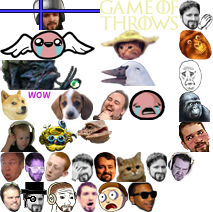
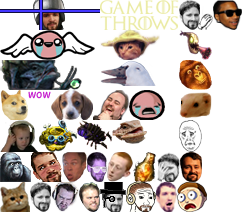
revert the removal of some emotes! we did it reddit!

diff --git a/static/chat/css/style.min.css b/static/chat/css/style.min.css
@@ -1,1 +1,1 @@
-.nano{position:relative;width:100%;height:100%;overflow:hidden}.nano .content{position:absolute;overflow:scroll;overflow-x:hidden;top:0;right:0;bottom:0;left:0}.nano .content:focus{outline:0}.nano .content::-webkit-scrollbar{visibility:hidden}.has-scrollbar .content::-webkit-scrollbar{visibility:visible}.nano:hover>.pane,.pane.active,.pane.flashed{visibility:visible\9;opacity:.99}.nano>.pane{background:rgba(0,0,0,0.3);position:absolute;width:8px;right:5px;top:0;bottom:0;visibility:hidden\9;opacity:.01;-webkit-transition:.2s;-moz-transition:.2s;-o-transition:.2s;transition:.2s}.nano>.pane>.slider{background:#999;position:relative;margin:0 1px;-moz-border-radius:3px;-webkit-border-radius:3px;border-radius:3px}.nano>.pane>.slider:hover,.nano>.pane.active>.slider{background:#eee}.serif{font-family:"Trebuchet MS",sans-serif}.chat{position:relative;width:100%;height:100%;min-width:300px}.chat-output-frame{margin-bottom:35px;height:auto;width:100%;position:absolute;overflow:hidden;top:0;bottom:0;left:0;right:0}.chat-output{width:100%;height:100%}.chat-output .chat-lines{-webkit-backface-visibility:hidden;-webkit-perspective:1000}.chat-lines>div{clear:both;word-wrap:break-word;padding:3px 20px 3px 5px}.chat-lines>div .continue{user-select:none;color:#444}.chat-lines>div i.continue{user-select:none;color:#222}.chat-lines a.user{font-weight:bold;cursor:pointer;font-family:"Trebuchet MS",sans-serif}.chat-lines hr{margin:8px 0}.chat-lines .msg.emote{font-style:italic}.chat-input{width:100%;position:absolute;bottom:0}#chat-top-frame{position:absolute;top:0;left:0;right:0}#chat-bottom-frame{position:absolute;bottom:35px;left:0;right:0}.chat-input>div{margin:5px 0 0 0;background:#2e2e2e}.chat-tools-wrap{position:absolute;right:0;bottom:0;margin:0;user-select:none;-moz-user-select:none;-webkit-user-select:none}.chat-input-wrap{margin:0;margin-right:60px}#user-mute-form,#user-ban-form{margin-top:10px;display:none}#user-mute-form #banTimeLength{width:150px}.chat-input-control{padding:3px 0 0 5px;height:28px;margin:1px;border-radius:3px}.chat-input-control .input{background:0;resize:none;margin:0;padding:0;width:100%;border:0;border-radius:0;box-shadow:none;box-sizing:border-box}.chat-input-control .input:focus{box-shadow:none}.chat-tools-wrap>div{height:30px;overflow:hidden}.chat-tools-wrap .iconbtn{cursor:pointer;width:30px;height:28px;line-height:28px;float:left;display:block;text-align:center;color:#555}.chat-tools-wrap .iconbtn:hover{color:white}.chat-tools-wrap .iconbtn.active{color:white}.chat .chat-lines i[class^="icon-"]{width:16px;line-height:16px;height:16px;margin:0;opacity:1;display:inline-block;vertical-align:middle}.chat-input-control input,.chat-lines{font-family:Helvetica,"Trebuchet MS",Verdana,sans-serif;font-size:13px;line-height:1.5em}.chat-lines time{font-size:11px}.chat-lines a.externallink{color:#02c2ff}.chat-lines a.externallink:visited{color:#004d74}.chat-lines a.externallink:hover,.chat-lines a.externallink:focus{color:#08c}.chat-lines a.nsfw-link{border-bottom:1px dashed red}.chat .chat-lines time,.chat .user-msg i{display:none!important}.chat.chat-time .chat-lines time,.chat.chat-icons .user-msg i,.chat-lines i[class*='icon-subscriber']{display:inline-block!important}.chat-theme-dark{background:#080808;border-radius:0}.chat-theme-dark .chat-input-wrap{border:0}.chat-theme-dark .chat-lines time{color:#414141}.chat-theme-dark .chat-lines>div.highlight time,.chat-lines>div.highlight .continue{color:#838383}.chat-theme-dark .chat-lines>.command-msg,.chat-theme-dark .chat-lines>.error-msg,.chat-theme-dark .chat-lines>.status-msg,.chat-theme-dark .chat-lines>.ui-msg,.chat-theme-dark .chat-lines>.own-msg,.chat-theme-dark .chat-lines>.highlight{color:#dedede}.chat-theme-dark .chat-lines>.broadcast-msg .msg{color:#edea12}.chat-theme-dark .chat-lines>.broadcast-msg{background:linear-gradient(to right,rgba(255,255,21,0.1) 0,rgba(255,255,255,0) 90%,rgba(255,255,255,0) 100%)}.chat-theme-dark .chat-lines>.own-msg{background:linear-gradient(to right,rgba(255,255,255,0.05) 0,rgba(255,255,255,0.05) 90%,rgba(255,255,255,0) 100%)}.chat-theme-dark .chat-lines>.highlight{background:linear-gradient(to right,rgba(0,150,255,0.5) 0,rgba(0,150,255,0) 100%)}.chat-theme-dark .chat-lines>.command-msg,.chat-theme-dark .chat-lines>.own-msg,.chat-theme-dark .chat-lines>.highlight .msg,.chat-theme-dark .chat-lines>.broadcast-msg .msg{text-shadow:1px 1px 0 rgba(0,0,0,0.5)}.chat-theme-dark .chat-input-control{background:#090909;border:0}.chat-theme-dark .chat-input-control input{color:#9e9e9e;background:#090909;text-shadow:none;outline:0}.chat-theme-dark input:input-placeholder{color:#222}.chat-theme-dark input::-webkit-input-placeholder{color:#222}.chat-theme-dark input:-moz-placeholder{color:#222}.chat-theme-dark input::-moz-placeholder{color:#222}.chat-theme-dark input:-ms-input-placeholder{color:#222}.chat-theme-dark .nano>.pane{background:rgba(0,0,0,0.3);width:8px;right:5px;top:5px;bottom:0}.chat-theme-dark .nano>.pane>.slider{background:#999}.chat-theme-dark .nano>.pane>.slider:hover,.chat-theme-dark .nano>.pane.active>.slider{background:#eee}.chat.focus-user .chat-lines>.user-msg{opacity:.3}.chat.focus-user .chat-lines>.user-msg.focused,.chat.focus-user .chat-lines>.user-msg.highlight{opacity:1}.chat .alert{margin-bottom:0;padding-top:4px;padding-bottom:4px;font-size:12px}.hint-popup,.user-tools{width:100%;top:-5px;left:0}.hint-popup>div,.user-tools>div,#chat-broadcasts>div{border-radius:4px;margin:5px 20px 5px 5px}.user-tools .user-tools-user{font-family:"Trebuchet MS",sans-serif}#chat-broadcasts .chat-emote{display:none}.hint-popup>div{box-shadow:0 2px 6px rgba(0,0,0,0.9);padding:0}.hint-popup a:hover{cursor:pointer;color:#6aa7f9}.hint-popup .hidehint,.hint-popup .nexthint{top:0;position:relative;float:right;right:-23px;line-height:20px;-webkit-touch-callout:none;-webkit-user-select:none;-khtml-user-select:none;-moz-user-select:none;-ms-user-select:none;user-select:none;color:#CCC}.hint-popup .hidehint{right:-27px}.hint-popup .hidehint:hover,.hint-popup .nexthint:hover{color:#111}.hint-popup .alert{padding-right:35px}.user-tools-wrap{margin-left:-5px}.user-tools-wrap>a{margin:0 5px}.chat-menu,.user-tools,.hint-popup{display:none;opacity:0}.chat-menu.active,.user-tools.active,.hint-popup.active{display:block;opacity:1}.chat-menu,.user-tools,.hint-popup{font-size:12px}.chat-menu{position:absolute;right:20px;bottom:-5px;width:240px}.chat-menu.active{bottom:0}.chat-menu h5,.user-tools h5{text-shadow:-1px -1px 0 rgba(0,0,0,0.25);user-select:none;-moz-user-select:none;-webkit-user-select:none;background:#4f4f4f;background:linear-gradient(to bottom,#4f4f4f 0,#2e2e2e 100%);border-bottom:1px solid #121212;margin:0;line-height:20px;display:block;padding:5px 15px 5px 10px;border-radius:4px 4px 0 0}.chat-menu .toolbar{width:100%;position:absolute;top:-31px;left:0}.chat-menu li,.chat-menu label{font-size:12px}.chat-menu label{font-weight:normal;margin:0 0 5px 0}.chat-menu label:hover{color:white}.chat-menu .list-wrap,.chat-menu .list-wrap .scrollable{max-height:330px;font-size:.9em}.chat-menu .list-wrap,.user-tools>div{box-shadow:0 2px 6px rgba(0,0,0,0.9);border-radius:0 0 4px 4px;background:rgba(25,25,25,0.9);padding:0}.chat-menu .list-wrap{margin-top:auto}.chat-menu ul,.user-tools .tools{padding:0 10px;margin:10px 0}.chat-menu ul>li:first-child h5{margin-top:0}.chat-menu ul li{text-overflow:ellipsis;overflow:hidden}#chat-user-list ul li{line-height:18px}#chat-user-list h6:first-child{margin-top:10px}#chat-user-list h6{font-weight:bold;margin:0 0 5px 5px}#chat-user-list hr{margin:5px 0}#chat-user-list ul{margin:0}#chat-user-list .user{cursor:pointer;font-family:"Trebuchet MS",sans-serif}.user-tools a#unignoreuser,.user-tools.user-ignored a#ignoreuser{display:none}.user-tools.user-ignored a#unignoreuser{display:inline-block}.chat-menu .nano>.pane{width:8px;right:3px;top:3px;bottom:3px}.chat-login-msg{display:inline-block;width:100%;padding:0 0 0 5px;line-height:30px;color:rgba(255,255,255,0.5);text-shadow:-1px -1px 0 rgba(0,0,0,0.25)}.chat-lines .emotecount{color:white;text-shadow:1px 1px 0 rgba(0,0,0,0.9);font-size:10px;line-height:10px;border-radius:10px;padding:3px 6px;margin:0 0 0 5px;background:#191919}.chat-lines .emotecount{text-shadow:none;animation:emotecount 600ms 1;-webkit-animation:emotecount 600ms 1}@keyframes emotecount{from{color:black;background-color:white}to{color:white;background-color:#333}}@-webkit-keyframes emotecount{from{color:black;background-color:white}to{color:white;background-color:#333}}.chat-lines .emotecount.x5>span{font-size:10px}.chat-lines .emotecount.x10>span{font-size:16px}.chat-lines .emotecount.x20>span{font-size:25px;vertical-align:middle}.chat-lines .emotecount.x30>span{font-size:35px;vertical-align:middle}.chat-lines .emotecount.x50>span{font-size:40px;vertical-align:middle}.chat a.user{color:#cacaca}.chat a.user:hover{color:#fafafa}.chat a.subscriber{color:#488ce7}.chat a.subscriber:hover{color:#6aa7f9}.chat a.flair3{color:#0060ff;text-shadow:1px 1px 0 black}.chat a.flair3:hover{color:#6aa7f9}.chat a.flair8{color:#a427d6;text-shadow:1px 1px 0 black}.chat a.flair8:hover{color:#e564f4}.chat a.vip{color:#4db524}.chat a.vip:hover{color:#4db524}.chat a.bot{color:#e79015}.chat a.bot:hover{color:#e79015}.chat a.admin{color:#b91010}.chat a.admin:hover{color:#f00}.chat .greentext{color:#6ca528}.chat-emote{display:inline-block;position:relative;top:10px;margin:0 2px}.chat-emote.chat-emote-OverRustle{animation:rustle 100ms 7;-webkit-animation:rustle 100ms 7}.chat-emote.chat-emote-OverRustle:hover{animation:rustle1 100ms infinite;-webkit-animation:rustle1 100ms infinite}@keyframes rustle{from{left:0}to{left:2px}}@-webkit-keyframes rustle{from{left:0}to{left:2px}}@keyframes rustle1{from{left:0}to{left:2px}}@-webkit-keyframes rustle1{from{left:0}to{left:2px}}.chat-emote.chat-emote-AYYYLMAO,.chat-emote.chat-emote-AngelThump,.chat-emote.chat-emote-Abathur,.chat-emote.chat-emote-GameOfThrows,.chat-emote.chat-emote-KINGSLY,.chat-emote.chat-emote-DuckerZ,.chat-emote.chat-emote-SoDoge,.chat-emote.chat-emote-FrankerZ,.chat-emote.chat-emote-FeedNathan,.chat-emote.chat-emote-Heimerdonger,.chat-emote.chat-emote-LUL,.chat-emote.chat-emote-BibleThump,.chat-emote.chat-emote-Hhhehhehe,.chat-emote.chat-emote-Klappa,.chat-emote.chat-emote-OverRustle,.chat-emote.chat-emote-SoSad,.chat-emote.chat-emote-NoTears,.chat-emote.chat-emote-DestiSenpaii,.chat-emote.chat-emote-WhoahDude,.chat-emote.chat-emote-WORTH,.chat-emote.chat-emote-UWOTM8,.chat-emote.chat-emote-OhKrappa,.chat-emote.chat-emote-Nappa,.chat-emote.chat-emote-MotherFuckinGame,.chat-emote.chat-emote-Kappa,.chat-emote.chat-emote-Disgustiny,.chat-emote.chat-emote-DatGeoff,.chat-emote.chat-emote-DappaKappa,.chat-emote.chat-emote-DaFeels,.chat-emote.chat-emote-DURRSTINY,.chat-emote.chat-emote-DAFUK,.chat-emote.chat-emote-BasedGod{background-image:url('../img/emoticons.png');background-repeat:no-repeat}.chat-emote.chat-emote-AYYYLMAO{background-position:0 0;width:100px;height:30px;margin-top:-30px}.chat-emote.chat-emote-AngelThump{background-position:0 -30px;width:95px;height:30px;margin-top:-30px}.chat-emote.chat-emote-Abathur{background-position:0 -60px;width:82px;height:30px;margin-top:-30px}.chat-emote.chat-emote-GameOfThrows{background-position:-100px 0;width:79px;height:30px;margin-top:-30px}.chat-emote.chat-emote-KINGSLY{background-position:-100px -30px;width:60px;height:30px;margin-top:-30px}.chat-emote.chat-emote-DuckerZ{background-position:-100px -60px;width:56px;height:26px;margin-top:-26px}.chat-emote.chat-emote-SoDoge{background-position:0 -90px;width:51px;height:30px;margin-top:-30px}.chat-emote.chat-emote-FrankerZ{background-position:-51px -90px;width:42px;height:30px;margin-top:-30px}.chat-emote.chat-emote-FeedNathan{background-position:0 -120px;width:39px;height:32px;margin-top:-32px}.chat-emote.chat-emote-Heimerdonger{background-position:-39px -120px;width:38px;height:32px;margin-top:-32px}.chat-emote.chat-emote-LUL{background-position:-93px -90px;width:36px;height:30px;margin-top:-30px}.chat-emote.chat-emote-BibleThump{background-position:-129px -90px;width:36px;height:30px;margin-top:-30px}.chat-emote.chat-emote-Hhhehhehe{background-position:-77px -120px;width:35px;height:24px;margin-top:-24px}.chat-emote.chat-emote-Klappa{background-position:-179px 0;width:34px;height:30px;margin-top:-30px}.chat-emote.chat-emote-OverRustle{background-position:-179px -30px;width:33px;height:30px;margin-top:-30px}.chat-emote.chat-emote-SoSad{background-position:-179px -60px;width:23px;height:32px;margin-top:-32px}.chat-emote.chat-emote-NoTears{background-position:-179px -92px;width:31px;height:30px;margin-top:-30px}.chat-emote.chat-emote-DestiSenpaii{background-position:-179px -122px;width:31px;height:30px;margin-top:-30px}.chat-emote.chat-emote-WhoahDude{background-position:0 -152px;width:25px;height:30px;margin-top:-30px}.chat-emote.chat-emote-WORTH{background-position:-25px -152px;width:20px;height:30px;margin-top:-30px}.chat-emote.chat-emote-UWOTM8{background-position:-45px -152px;width:26px;height:30px;margin-top:-30px}.chat-emote.chat-emote-OhKrappa{background-position:-71px -152px;width:23px;height:30px;margin-top:-30px}.chat-emote.chat-emote-Nappa{background-position:-94px -152px;width:22px;height:30px;margin-top:-30px}.chat-emote.chat-emote-MotherFuckinGame{background-position:-116px -152px;width:30px;height:30px;margin-top:-30px}.chat-emote.chat-emote-Kappa{background-position:-146px -152px;width:21px;height:30px;margin-top:-30px}.chat-emote.chat-emote-Disgustiny{background-position:-167px -152px;width:28px;height:30px;margin-top:-30px}.chat-emote.chat-emote-DatGeoff{background-position:0 -182px;width:21px;height:30px;margin-top:-30px}.chat-emote.chat-emote-DappaKappa{background-position:-21px -182px;width:26px;height:30px;margin-top:-30px}.chat-emote.chat-emote-DaFeels{background-position:-47px -182px;width:30px;height:30px;margin-top:-30px}.chat-emote.chat-emote-DURRSTINY{background-position:-77px -182px;width:21px;height:30px;margin-top:-30px}.chat-emote.chat-emote-DAFUK{background-position:-98px -182px;width:30px;height:30px;margin-top:-30px}.chat-emote.chat-emote-BasedGod{background-position:-128px -182px;width:29px;height:30px;margin-top:-30px}.icon-subscriber,.icon-subscribert2,.icon-subscribert3,.icon-subscribert4{-webkit-transform:rotate(0deg);-webkit-transition:rotate .2s ease-in-out;-moz-transition:rotate .2s ease-in-out;-o-transition:rotate .2s ease-in-out;transition:rotate .2s ease-in-out}.icon-subscriber:hover,.icon-subscribert2:hover,.icon-subscribert3:hover,.icon-subscribert4:hover{-moz-animation:spin 3s infinite linear;-webkit-animation:spin 3s infinite linear}.icon-vip:hover,.icon-vip,.icon-trusted,.icon-subscribert4,.icon-subscribert3,.icon-subscribert2,.icon-subscriber,.icon-status,.icon-notable,.icon-moderator,.icon-info,.icon-evenotable,.icon-error,.icon-contributor,.icon-compchallenge:hover,.icon-compchallenge,.icon-command,.icon-bot:hover,.icon-bot,.icon-admin:hover,.icon-admin{background-image:url('../img/icons.png');background-repeat:no-repeat}.icon-vip:hover{background-position:0 0;width:16px;height:16px}.icon-vip{background-position:-16px 0;width:16px;height:16px}.icon-trusted{background-position:0 -16px;width:16px;height:16px}.icon-subscribert4{background-position:-16px -16px;width:16px;height:16px}.icon-subscribert3{background-position:-32px 0;width:16px;height:16px}.icon-subscribert2{background-position:-32px -16px;width:16px;height:16px}.icon-subscriber{background-position:0 -32px;width:16px;height:16px}.icon-status{background-position:-16px -32px;width:16px;height:16px}.icon-notable{background-position:-32px -32px;width:16px;height:16px}.icon-moderator{background-position:-48px 0;width:16px;height:16px}.icon-info{background-position:-48px -16px;width:16px;height:16px}.icon-evenotable{background-position:-48px -32px;width:16px;height:16px}.icon-error{background-position:0 -48px;width:16px;height:16px}.icon-contributor{background-position:-16px -48px;width:16px;height:16px}.icon-compchallenge:hover{background-position:-32px -48px;width:16px;height:16px}.icon-compchallenge{background-position:-48px -48px;width:16px;height:16px}.icon-command{background-position:-64px 0;width:16px;height:16px}.icon-bot:hover{background-position:-64px -16px;width:16px;height:16px}.icon-bot{background-position:-64px -32px;width:16px;height:16px}.icon-admin:hover{background-position:-64px -48px;width:16px;height:16px}.icon-admin{background-position:0 -64px;width:16px;height:16px}
+.nano{position:relative;width:100%;height:100%;overflow:hidden}.nano .content{position:absolute;overflow:scroll;overflow-x:hidden;top:0;right:0;bottom:0;left:0}.nano .content:focus{outline:0}.nano .content::-webkit-scrollbar{visibility:hidden}.has-scrollbar .content::-webkit-scrollbar{visibility:visible}.nano:hover>.pane,.pane.active,.pane.flashed{visibility:visible\9;opacity:.99}.nano>.pane{background:rgba(0,0,0,0.3);position:absolute;width:8px;right:5px;top:0;bottom:0;visibility:hidden\9;opacity:.01;-webkit-transition:.2s;-moz-transition:.2s;-o-transition:.2s;transition:.2s}.nano>.pane>.slider{background:#999;position:relative;margin:0 1px;-moz-border-radius:3px;-webkit-border-radius:3px;border-radius:3px}.nano>.pane>.slider:hover,.nano>.pane.active>.slider{background:#eee}.serif{font-family:"Trebuchet MS",sans-serif}.chat{position:relative;width:100%;height:100%;min-width:300px}.chat-output-frame{margin-bottom:35px;height:auto;width:100%;position:absolute;overflow:hidden;top:0;bottom:0;left:0;right:0}.chat-output{width:100%;height:100%}.chat-output .chat-lines{-webkit-backface-visibility:hidden;-webkit-perspective:1000}.chat-lines>div{clear:both;word-wrap:break-word;padding:3px 20px 3px 5px}.chat-lines>div .continue{user-select:none;color:#444}.chat-lines>div i.continue{user-select:none;color:#222}.chat-lines a.user{font-weight:bold;cursor:pointer;font-family:"Trebuchet MS",sans-serif}.chat-lines hr{margin:8px 0}.chat-lines .msg.emote{font-style:italic}.chat-input{width:100%;position:absolute;bottom:0}#chat-top-frame{position:absolute;top:0;left:0;right:0}#chat-bottom-frame{position:absolute;bottom:35px;left:0;right:0}.chat-input>div{margin:5px 0 0 0;background:#2e2e2e}.chat-tools-wrap{position:absolute;right:0;bottom:0;margin:0;user-select:none;-moz-user-select:none;-webkit-user-select:none}.chat-input-wrap{margin:0;margin-right:60px}#user-mute-form,#user-ban-form{margin-top:10px;display:none}#user-mute-form #banTimeLength{width:150px}.chat-input-control{padding:3px 0 0 5px;height:28px;margin:1px;border-radius:3px}.chat-input-control .input{background:0;resize:none;margin:0;padding:0;width:100%;border:0;border-radius:0;box-shadow:none;box-sizing:border-box}.chat-input-control .input:focus{box-shadow:none}.chat-tools-wrap>div{height:30px;overflow:hidden}.chat-tools-wrap .iconbtn{cursor:pointer;width:30px;height:28px;line-height:28px;float:left;display:block;text-align:center;color:#555}.chat-tools-wrap .iconbtn:hover{color:white}.chat-tools-wrap .iconbtn.active{color:white}.chat .chat-lines i[class^="icon-"]{width:16px;line-height:16px;height:16px;margin:0;opacity:1;display:inline-block;vertical-align:middle}.chat-input-control input,.chat-lines{font-family:Helvetica,"Trebuchet MS",Verdana,sans-serif;font-size:13px;line-height:1.5em}.chat-lines time{font-size:11px}.chat-lines a.externallink{color:#02c2ff}.chat-lines a.externallink:visited{color:#004d74}.chat-lines a.externallink:hover,.chat-lines a.externallink:focus{color:#08c}.chat-lines a.nsfw-link{border-bottom:1px dashed red}.chat .chat-lines time,.chat .user-msg i{display:none!important}.chat.chat-time .chat-lines time,.chat.chat-icons .user-msg i,.chat-lines i[class*='icon-subscriber']{display:inline-block!important}.chat-theme-dark{background:#080808;border-radius:0}.chat-theme-dark .chat-input-wrap{border:0}.chat-theme-dark .chat-lines time{color:#414141}.chat-theme-dark .chat-lines>div.highlight time,.chat-lines>div.highlight .continue{color:#838383}.chat-theme-dark .chat-lines>.command-msg,.chat-theme-dark .chat-lines>.error-msg,.chat-theme-dark .chat-lines>.status-msg,.chat-theme-dark .chat-lines>.ui-msg,.chat-theme-dark .chat-lines>.own-msg,.chat-theme-dark .chat-lines>.highlight{color:#dedede}.chat-theme-dark .chat-lines>.broadcast-msg .msg{color:#edea12}.chat-theme-dark .chat-lines>.broadcast-msg{background:linear-gradient(to right,rgba(255,255,21,0.1) 0,rgba(255,255,255,0) 90%,rgba(255,255,255,0) 100%)}.chat-theme-dark .chat-lines>.own-msg{background:linear-gradient(to right,rgba(255,255,255,0.05) 0,rgba(255,255,255,0.05) 90%,rgba(255,255,255,0) 100%)}.chat-theme-dark .chat-lines>.highlight{background:linear-gradient(to right,rgba(0,150,255,0.5) 0,rgba(0,150,255,0) 100%)}.chat-theme-dark .chat-lines>.command-msg,.chat-theme-dark .chat-lines>.own-msg,.chat-theme-dark .chat-lines>.highlight .msg,.chat-theme-dark .chat-lines>.broadcast-msg .msg{text-shadow:1px 1px 0 rgba(0,0,0,0.5)}.chat-theme-dark .chat-input-control{background:#090909;border:0}.chat-theme-dark .chat-input-control input{color:#9e9e9e;background:#090909;text-shadow:none;outline:0}.chat-theme-dark input:input-placeholder{color:#222}.chat-theme-dark input::-webkit-input-placeholder{color:#222}.chat-theme-dark input:-moz-placeholder{color:#222}.chat-theme-dark input::-moz-placeholder{color:#222}.chat-theme-dark input:-ms-input-placeholder{color:#222}.chat-theme-dark .nano>.pane{background:rgba(0,0,0,0.3);width:8px;right:5px;top:5px;bottom:0}.chat-theme-dark .nano>.pane>.slider{background:#999}.chat-theme-dark .nano>.pane>.slider:hover,.chat-theme-dark .nano>.pane.active>.slider{background:#eee}.chat.focus-user .chat-lines>.user-msg{opacity:.3}.chat.focus-user .chat-lines>.user-msg.focused,.chat.focus-user .chat-lines>.user-msg.highlight{opacity:1}.chat .alert{margin-bottom:0;padding-top:4px;padding-bottom:4px;font-size:12px}.hint-popup,.user-tools{width:100%;top:-5px;left:0}.hint-popup>div,.user-tools>div,#chat-broadcasts>div{border-radius:4px;margin:5px 20px 5px 5px}.user-tools .user-tools-user{font-family:"Trebuchet MS",sans-serif}#chat-broadcasts .chat-emote{display:none}.hint-popup>div{box-shadow:0 2px 6px rgba(0,0,0,0.9);padding:0}.hint-popup a:hover{cursor:pointer;color:#6aa7f9}.hint-popup .hidehint,.hint-popup .nexthint{top:0;position:relative;float:right;right:-23px;line-height:20px;-webkit-touch-callout:none;-webkit-user-select:none;-khtml-user-select:none;-moz-user-select:none;-ms-user-select:none;user-select:none;color:#CCC}.hint-popup .hidehint{right:-27px}.hint-popup .hidehint:hover,.hint-popup .nexthint:hover{color:#111}.hint-popup .alert{padding-right:35px}.user-tools-wrap{margin-left:-5px}.user-tools-wrap>a{margin:0 5px}.chat-menu,.user-tools,.hint-popup{display:none;opacity:0}.chat-menu.active,.user-tools.active,.hint-popup.active{display:block;opacity:1}.chat-menu,.user-tools,.hint-popup{font-size:12px}.chat-menu{position:absolute;right:20px;bottom:-5px;width:240px}.chat-menu.active{bottom:0}.chat-menu h5,.user-tools h5{text-shadow:-1px -1px 0 rgba(0,0,0,0.25);user-select:none;-moz-user-select:none;-webkit-user-select:none;background:#4f4f4f;background:linear-gradient(to bottom,#4f4f4f 0,#2e2e2e 100%);border-bottom:1px solid #121212;margin:0;line-height:20px;display:block;padding:5px 15px 5px 10px;border-radius:4px 4px 0 0}.chat-menu .toolbar{width:100%;position:absolute;top:-31px;left:0}.chat-menu li,.chat-menu label{font-size:12px}.chat-menu label{font-weight:normal;margin:0 0 5px 0}.chat-menu label:hover{color:white}.chat-menu .list-wrap,.chat-menu .list-wrap .scrollable{max-height:330px;font-size:.9em}.chat-menu .list-wrap,.user-tools>div{box-shadow:0 2px 6px rgba(0,0,0,0.9);border-radius:0 0 4px 4px;background:rgba(25,25,25,0.9);padding:0}.chat-menu .list-wrap{margin-top:auto}.chat-menu ul,.user-tools .tools{padding:0 10px;margin:10px 0}.chat-menu ul>li:first-child h5{margin-top:0}.chat-menu ul li{text-overflow:ellipsis;overflow:hidden}#chat-user-list ul li{line-height:18px}#chat-user-list h6:first-child{margin-top:10px}#chat-user-list h6{font-weight:bold;margin:0 0 5px 5px}#chat-user-list hr{margin:5px 0}#chat-user-list ul{margin:0}#chat-user-list .user{cursor:pointer;font-family:"Trebuchet MS",sans-serif}.user-tools a#unignoreuser,.user-tools.user-ignored a#ignoreuser{display:none}.user-tools.user-ignored a#unignoreuser{display:inline-block}.chat-menu .nano>.pane{width:8px;right:3px;top:3px;bottom:3px}.chat-login-msg{display:inline-block;width:100%;padding:0 0 0 5px;line-height:30px;color:rgba(255,255,255,0.5);text-shadow:-1px -1px 0 rgba(0,0,0,0.25)}.chat-lines .emotecount{color:white;text-shadow:1px 1px 0 rgba(0,0,0,0.9);font-size:10px;line-height:10px;border-radius:10px;padding:3px 6px;margin:0 0 0 5px;background:#191919}.chat-lines .emotecount{text-shadow:none;animation:emotecount 600ms 1;-webkit-animation:emotecount 600ms 1}@keyframes emotecount{from{color:black;background-color:white}to{color:white;background-color:#333}}@-webkit-keyframes emotecount{from{color:black;background-color:white}to{color:white;background-color:#333}}.chat-lines .emotecount.x5>span{font-size:10px}.chat-lines .emotecount.x10>span{font-size:16px}.chat-lines .emotecount.x20>span{font-size:25px;vertical-align:middle}.chat-lines .emotecount.x30>span{font-size:35px;vertical-align:middle}.chat-lines .emotecount.x50>span{font-size:40px;vertical-align:middle}.chat a.user{color:#cacaca}.chat a.user:hover{color:#fafafa}.chat a.subscriber{color:#488ce7}.chat a.subscriber:hover{color:#6aa7f9}.chat a.flair3{color:#0060ff;text-shadow:1px 1px 0 black}.chat a.flair3:hover{color:#6aa7f9}.chat a.flair8{color:#a427d6;text-shadow:1px 1px 0 black}.chat a.flair8:hover{color:#e564f4}.chat a.vip{color:#4db524}.chat a.vip:hover{color:#4db524}.chat a.bot{color:#e79015}.chat a.bot:hover{color:#e79015}.chat a.admin{color:#b91010}.chat a.admin:hover{color:#f00}.chat .greentext{color:#6ca528}.chat-emote{display:inline-block;position:relative;top:10px;margin:0 2px}.chat-emote.chat-emote-OverRustle{animation:rustle 100ms 7;-webkit-animation:rustle 100ms 7}.chat-emote.chat-emote-OverRustle:hover{animation:rustle1 100ms infinite;-webkit-animation:rustle1 100ms infinite}@keyframes rustle{from{left:0}to{left:2px}}@-webkit-keyframes rustle{from{left:0}to{left:2px}}@keyframes rustle1{from{left:0}to{left:2px}}@-webkit-keyframes rustle1{from{left:0}to{left:2px}}.chat-emote.chat-emote-AYYYLMAO,.chat-emote.chat-emote-AngelThump,.chat-emote.chat-emote-Abathur,.chat-emote.chat-emote-GameOfThrows,.chat-emote.chat-emote-KINGSLY,.chat-emote.chat-emote-DuckerZ,.chat-emote.chat-emote-SoDoge,.chat-emote.chat-emote-FrankerZ,.chat-emote.chat-emote-FeedNathan,.chat-emote.chat-emote-Heimerdonger,.chat-emote.chat-emote-LUL,.chat-emote.chat-emote-BibleThump,.chat-emote.chat-emote-INFESTINY,.chat-emote.chat-emote-Hhhehhehe,.chat-emote.chat-emote-Klappa,.chat-emote.chat-emote-SURPRISE,.chat-emote.chat-emote-OverRustle,.chat-emote.chat-emote-FerretLOL,.chat-emote.chat-emote-SoSad,.chat-emote.chat-emote-NoTears,.chat-emote.chat-emote-DestiSenpaii,.chat-emote.chat-emote-WhoahDude,.chat-emote.chat-emote-WORTH,.chat-emote.chat-emote-UWOTM8,.chat-emote.chat-emote-Sippy,.chat-emote.chat-emote-OhKrappa,.chat-emote.chat-emote-Nappa,.chat-emote.chat-emote-MotherFuckinGame,.chat-emote.chat-emote-Kappa,.chat-emote.chat-emote-Disgustiny,.chat-emote.chat-emote-DatGeoff,.chat-emote.chat-emote-DappaKappa,.chat-emote.chat-emote-DaFeels,.chat-emote.chat-emote-DURRSTINY,.chat-emote.chat-emote-DAFUK,.chat-emote.chat-emote-BasedGod{background-image:url('../img/emoticons.png');background-repeat:no-repeat}.chat-emote.chat-emote-AYYYLMAO{background-position:0 0;width:100px;height:30px;margin-top:-30px}.chat-emote.chat-emote-AngelThump{background-position:0 -30px;width:95px;height:30px;margin-top:-30px}.chat-emote.chat-emote-Abathur{background-position:0 -60px;width:82px;height:30px;margin-top:-30px}.chat-emote.chat-emote-GameOfThrows{background-position:-100px 0;width:79px;height:30px;margin-top:-30px}.chat-emote.chat-emote-KINGSLY{background-position:-100px -30px;width:60px;height:30px;margin-top:-30px}.chat-emote.chat-emote-DuckerZ{background-position:-100px -60px;width:56px;height:26px;margin-top:-26px}.chat-emote.chat-emote-SoDoge{background-position:0 -90px;width:51px;height:30px;margin-top:-30px}.chat-emote.chat-emote-FrankerZ{background-position:-51px -90px;width:42px;height:30px;margin-top:-30px}.chat-emote.chat-emote-FeedNathan{background-position:0 -120px;width:39px;height:32px;margin-top:-32px}.chat-emote.chat-emote-Heimerdonger{background-position:-39px -120px;width:38px;height:32px;margin-top:-32px}.chat-emote.chat-emote-LUL{background-position:-93px -90px;width:36px;height:30px;margin-top:-30px}.chat-emote.chat-emote-BibleThump{background-position:-129px -90px;width:36px;height:30px;margin-top:-30px}.chat-emote.chat-emote-INFESTINY{background-position:-77px -120px;width:35px;height:30px;margin-top:-30px}.chat-emote.chat-emote-Hhhehhehe{background-position:-112px -120px;width:35px;height:24px;margin-top:-24px}.chat-emote.chat-emote-Klappa{background-position:-179px 0;width:34px;height:30px;margin-top:-30px}.chat-emote.chat-emote-SURPRISE{background-position:-179px -30px;width:33px;height:30px;margin-top:-30px}.chat-emote.chat-emote-OverRustle{background-position:-179px -60px;width:33px;height:30px;margin-top:-30px}.chat-emote.chat-emote-FerretLOL{background-position:-179px -90px;width:33px;height:30px;margin-top:-30px}.chat-emote.chat-emote-SoSad{background-position:-179px -120px;width:23px;height:32px;margin-top:-32px}.chat-emote.chat-emote-NoTears{background-position:0 -152px;width:31px;height:30px;margin-top:-30px}.chat-emote.chat-emote-DestiSenpaii{background-position:-31px -152px;width:31px;height:30px;margin-top:-30px}.chat-emote.chat-emote-WhoahDude{background-position:-62px -152px;width:25px;height:30px;margin-top:-30px}.chat-emote.chat-emote-WORTH{background-position:-87px -152px;width:20px;height:30px;margin-top:-30px}.chat-emote.chat-emote-UWOTM8{background-position:-107px -152px;width:26px;height:30px;margin-top:-30px}.chat-emote.chat-emote-Sippy{background-position:-133px -152px;width:24px;height:30px;margin-top:-30px}.chat-emote.chat-emote-OhKrappa{background-position:-157px -152px;width:23px;height:30px;margin-top:-30px}.chat-emote.chat-emote-Nappa{background-position:-180px -152px;width:22px;height:30px;margin-top:-30px}.chat-emote.chat-emote-MotherFuckinGame{background-position:0 -182px;width:30px;height:30px;margin-top:-30px}.chat-emote.chat-emote-Kappa{background-position:-30px -182px;width:21px;height:30px;margin-top:-30px}.chat-emote.chat-emote-Disgustiny{background-position:-51px -182px;width:28px;height:30px;margin-top:-30px}.chat-emote.chat-emote-DatGeoff{background-position:-79px -182px;width:21px;height:30px;margin-top:-30px}.chat-emote.chat-emote-DappaKappa{background-position:-100px -182px;width:26px;height:30px;margin-top:-30px}.chat-emote.chat-emote-DaFeels{background-position:-126px -182px;width:30px;height:30px;margin-top:-30px}.chat-emote.chat-emote-DURRSTINY{background-position:-156px -182px;width:21px;height:30px;margin-top:-30px}.chat-emote.chat-emote-DAFUK{background-position:-177px -182px;width:30px;height:30px;margin-top:-30px}.chat-emote.chat-emote-BasedGod{background-position:-213px 0;width:29px;height:30px;margin-top:-30px}.icon-subscriber,.icon-subscribert2,.icon-subscribert3,.icon-subscribert4{-webkit-transform:rotate(0deg);-webkit-transition:rotate .2s ease-in-out;-moz-transition:rotate .2s ease-in-out;-o-transition:rotate .2s ease-in-out;transition:rotate .2s ease-in-out}.icon-subscriber:hover,.icon-subscribert2:hover,.icon-subscribert3:hover,.icon-subscribert4:hover{-moz-animation:spin 3s infinite linear;-webkit-animation:spin 3s infinite linear}.icon-vip:hover,.icon-vip,.icon-trusted,.icon-subscribert4,.icon-subscribert3,.icon-subscribert2,.icon-subscriber,.icon-status,.icon-notable,.icon-moderator,.icon-info,.icon-evenotable,.icon-error,.icon-contributor,.icon-compchallenge:hover,.icon-compchallenge,.icon-command,.icon-bot:hover,.icon-bot,.icon-admin:hover,.icon-admin{background-image:url('../img/icons.png');background-repeat:no-repeat}.icon-vip:hover{background-position:0 0;width:16px;height:16px}.icon-vip{background-position:-16px 0;width:16px;height:16px}.icon-trusted{background-position:0 -16px;width:16px;height:16px}.icon-subscribert4{background-position:-16px -16px;width:16px;height:16px}.icon-subscribert3{background-position:-32px 0;width:16px;height:16px}.icon-subscribert2{background-position:-32px -16px;width:16px;height:16px}.icon-subscriber{background-position:0 -32px;width:16px;height:16px}.icon-status{background-position:-16px -32px;width:16px;height:16px}.icon-notable{background-position:-32px -32px;width:16px;height:16px}.icon-moderator{background-position:-48px 0;width:16px;height:16px}.icon-info{background-position:-48px -16px;width:16px;height:16px}.icon-evenotable{background-position:-48px -32px;width:16px;height:16px}.icon-error{background-position:0 -48px;width:16px;height:16px}.icon-contributor{background-position:-16px -48px;width:16px;height:16px}.icon-compchallenge:hover{background-position:-32px -48px;width:16px;height:16px}.icon-compchallenge{background-position:-48px -48px;width:16px;height:16px}.icon-command{background-position:-64px 0;width:16px;height:16px}.icon-bot:hover{background-position:-64px -16px;width:16px;height:16px}.icon-bot{background-position:-64px -32px;width:16px;height:16px}.icon-admin:hover{background-position:-64px -48px;width:16px;height:16px}.icon-admin{background-position:0 -64px;width:16px;height:16px}

diff --git a/config/config.php b/config/config.php
@@ -44,6 +44,10 @@ return array (
 			'Nappa',
 			'DAFUK',
 			'AYYYLMAO',
+			'INFESTINY',
+			'SURPRISE',
+			'FerretLOL',
+			'Sippy',
 		),
 	),
 	'redis' => array(
